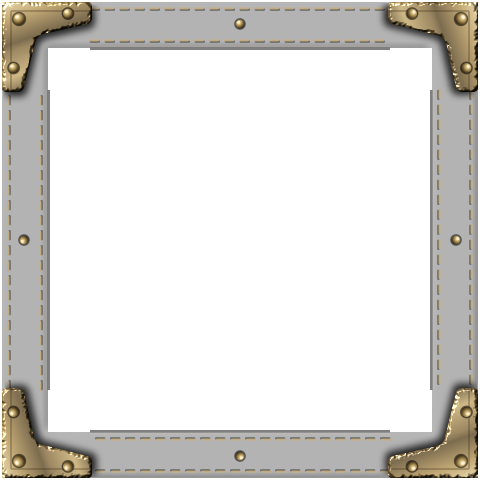
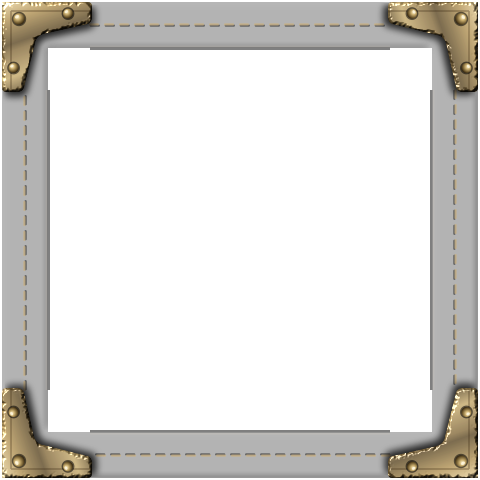
feat(v1.3-p3): UI-P3 visual finish with per-theme Use seals (for screenshot review)
- Memo 5: 적갈 가죽 keeps its red wax seal; 흑단과 은, 숲의 펠트 and
  아케인 블루 get their own vector seals from scripts/design/seals_v13.mjs
  (silver-rimmed ebony medallion, oak-leaf green wax, glowing rune stone
  with no metal), with matching text ink and hover light.
- Ornament density: the oxblood board frame keeps its corner guards but
  drops the repeated edge rivets and the second stitch row (frames_v12
  gains FRAMES_ONLY; the other frames are byte-identical). The IN PLAY
  slot has one trim line; the large card keeps only its glow; the
  oxblood ledger binding uses a plain line instead of dashes.
- Typography: serif for titles and names, sans for filters, toggles,
  small buttons, costs, numbers and secondary lines.
- v13-p3-e2e checks each theme's seal; V13Seals unit test.
- Full E2E regression passes on the bundle and the packaged EXE.

diff --git a/src/theme-playmat.css b/src/theme-playmat.css
@@ -1068,3 +1068,29 @@ html, body { background: #0b0807; }
 .app.playmat .rest-heading { display: flex; align-items: center; gap: 8px; margin: 2px 0 3px; font: 700 9.5px var(--display); letter-spacing: 3px; color: var(--mute-l); }
 .app.playmat .rest-heading::before, .app.playmat .rest-heading::after { content: ''; flex: 1; height: 1px; background: linear-gradient(90deg, transparent, var(--m2), transparent); }
 @media (max-height: 560px) { .app.playmat .rest-heading { display: none; } }
+
+/* ---- v1.3 Phase 3 · UI-P3: visual finish ---- */
+/* The Use seal per theme (memo 5). 적갈 가죽 keeps its red wax; the others are drawn by scripts/design/seals_v13.mjs. */
+.app.playmat { --seal-ink: #fbeee2; --seal-ink-shadow: 0 1px 0 #3a0c07, 0 -1px 0 rgba(255, 190, 170, .3); --seal-hover: drop-shadow(0 6px 7px rgba(40, 14, 8, .7)) brightness(1.08); }
+.app.playmat[data-theme=ebony] { --seal: url('./assets/playmat/seal-ebony.svg'); --seal-ink: #f1f3f6; --seal-ink-shadow: 0 1px 1px #000, 0 0 5px rgba(0, 0, 0, .8);
+  --seal-hover: drop-shadow(0 6px 7px rgba(0, 0, 0, .75)) drop-shadow(0 0 5px rgba(235, 240, 248, .28)) brightness(1.06); }
+.app.playmat[data-theme=verdant] { --seal: url('./assets/playmat/seal-felt.svg'); --seal-ink: #f3eed8; --seal-ink-shadow: 0 1px 0 #0d1a0b, 0 0 4px rgba(10, 20, 8, .7);
+  --seal-hover: drop-shadow(0 6px 7px rgba(8, 16, 6, .7)) brightness(1.08) saturate(1.08); }
+.app.playmat[data-theme=abyss] { --seal: url('./assets/playmat/seal-arcane.svg'); --seal-ink: #e4f7ff; --seal-ink-shadow: 0 0 6px rgba(127, 207, 255, .95), 0 1px 0 #000;
+  --seal-hover: drop-shadow(0 4px 5px rgba(0, 0, 0, .7)) drop-shadow(0 0 9px rgba(127, 207, 255, .6)); }
+.app.playmat.p4-b .use-button:not(:disabled) { color: var(--seal-ink); text-shadow: var(--seal-ink-shadow); }
+.app.playmat.p4-b .use-button:hover:not(:disabled) { filter: var(--seal-hover); }
+.app.playmat[data-theme=abyss].p4-b .use-button:disabled { filter: saturate(0) brightness(.55); }
+
+/* One quiet frame around the large card: a single trim line on the slot and a soft glow on the card (no stacked rings). */
+.app.playmat .board-left > .in-play-slot { box-shadow: inset 0 0 0 1px var(--m2), inset 0 0 34px rgba(0, 0, 0, .38); }
+.app.playmat .board-left .detail-card .card-face:not(.has-alpha) { box-shadow: 0 0 20px var(--glow), 0 14px 28px rgba(0, 0, 0, .7); }
+/* The ledger binding loses its dashed stitch (적갈 가죽); the other themes keep their own line. */
+.app.playmat:not([data-theme]) .board-right > .resource-panel::before, .app.playmat[data-theme=oxblood] .board-right > .resource-panel::before { border: 1px solid rgba(210, 190, 160, .16); }
+/* Typography: decorative serif for titles and names (card name, ledger, DECK/USED, headers); the plain sans for
+   functional text — filters, toggles, small buttons, costs, numbers and secondary lines. */
+.app.playmat :is(.role-filter > button, .role-filter .chips button, .quick-actions button, .view-switch button, .zone-action) { font-family: var(--sans); font-size: 12px; }
+.app.playmat :is(.selected-properties, .card-use .cost-preview, .card-use .form-field, .exception-button) { font-family: var(--sans); }
+.app.playmat .detail-tags span { font-family: var(--sans); font-size: 10.5px; }
+.app.playmat .resource-status-row strong { font-family: var(--sans); font-size: 13px; }
+.app.playmat .rest-buttons button { font-family: var(--sans); font-weight: 700; }

diff --git a/tests/V13Seals.test.ts b/tests/V13Seals.test.ts
@@ -1,0 +1,25 @@
+import { describe, expect, it } from 'vitest';
+import { existsSync, readFileSync } from 'node:fs';
+import { resolve } from 'node:path';
+
+const dir = resolve('src/assets/playmat');
+const css = readFileSync(resolve('src/theme-playmat.css'), 'utf8');
+
+describe('v1.3 Phase 3 UI-P3 (memo 5) · a Use seal per theme', () => {
+  it('적갈 가죽 keeps its wax seal; the other themes point at their own seal file', () => {
+    expect(css).toContain("--seal: url('./assets/playmat/wax-seal.png');");
+    for (const [theme, file] of [['ebony', 'seal-ebony.svg'], ['verdant', 'seal-felt.svg'], ['abyss', 'seal-arcane.svg']]) {
+      expect(existsSync(resolve(dir, file)), file).toBe(true);
+      expect(css).toMatch(new RegExp(`\\.app\\.playmat\\[data-theme=${theme}\\] \\{ --seal: url\\('\\./assets/playmat/${file.replace('.', '\\.')}'\\);`));
+    }
+  });
+  it('the seals are self-contained vectors (no links, images or scripts), carry their id, and 아케인 블루 has no metal colours', () => {
+    for (const name of ['seal-ebony', 'seal-felt', 'seal-arcane']) {
+      const svg = readFileSync(resolve(dir, `${name}.svg`), 'utf8');
+      expect(svg.startsWith(`<svg id="${name}" xmlns="http://www.w3.org/2000/svg" viewBox="0 0 120 120"`)).toBe(true);
+      expect(svg).not.toMatch(/<image|<script|href=|https?:\/\/(?!www\.w3\.org\/2000\/svg)/);
+    }
+    // Silver/brass/bronze gradients are named for their metal in the generator; the arcane seal uses none of them.
+    expect(readFileSync(resolve(dir, 'seal-arcane.svg'), 'utf8')).not.toMatch(/silver|brass|bronze|gold/);
+  });
+});

diff --git a/V1_3_P3_UIP3_REVIEW.md b/V1_3_P3_UIP3_REVIEW.md
@@ -1,0 +1,78 @@
+# v1.3 Phase 3 · 두 번째 스크린샷 검수 — UI-P1 카드 영역 · UI-P2 정보 패널 · UI-P3 시각 마무리
+
+- 기준: UI-P0 승인 커밋 `5f58df3` → UI-P1·P2 중간 커밋 `fc13c34` → 이번 커밋. 브랜치는 `feat/v1.3-phase3`이고 앱 버전은 1.2.0 그대로다.
+- SQLite v6 그대로다. 새 설정 키 `used_view`와 새 IPC `assets:alpha`가 생겼다([DATA_SCHEMA_V1_3.md](DATA_SCHEMA_V1_3.md)).
+- 이 검수를 통과하면 UI-P4(플레이 흐름·화면 검증, 포토배시와의 차이 정리)로 넘어간다.
+
+## 1. 바뀐 점
+
+**UI-P1 카드 영역**
+- **손패:** 보통 창에서 카드 **5~7장**이 보인다(1920×1080 약 5.5장, 1366×768 약 7장). 카드는 손패 칸 높이에 맞추되 칸 너비의 1/5.6을 넘지 않는다. 짧은 창(1280×720·150%, 최소 창 860×440)에서도 카드와 이름이 잘리지 않는다.
+- **DECK·USED:** 같은 모양의 칸이다. 테두리 위 이름표, 왼쪽에 칸 높이를 채우는 더미, 오른쪽에 이름·장수·보조 버튼이 있다. 장부를 접어 칸이 좁아지면 더미와 이름만 세로로 쌓는다.
+- **메모 4 덱 셔플:** DECK 더미를 누르면 손패 순서가 무작위로 섞인다(더미가 짧게 흔들림, 모션 줄이기면 없음). 덱 구성·순서와 카드는 바뀌지 않고, 이번 실행 동안만 유지된다. “원래 순서”로 등록 순서로 돌아간다.
+- **메모 6 카드 뒷면:** 고르는 곳을 **관리 → 캐릭터·덱 → 카드 뒷면 바꾸기**로 옮겼다(고르는 창은 그대로).
+- **메모 3 최근 사용 비우기:** USED 칸의 “비우기”는 표시만 비운다. 사용 기록·Undo·자원·전체 사용 기록은 그대로이고, “되돌리기”로 되살린다. 비운 상태는 다시 실행해도 유지된다.
+- **메모 1 PNG 투명도:** 투명한 부분이 있는 카드 이미지는 어두운 바탕 없이 그 모양대로 보인다. 그림자·선택 빛이 이미지 모양을 따르고, 쓸 수 없는 카드 위 뒷면도 이미지 모양으로만 덮는다. 불투명 카드는 이전처럼 그린다. 원본 파일은 그대로다.
+
+**UI-P2 정보 패널**
+- **카드 세부:** 기본 높이를 화면의 40%에서 34%로 줄였다(약 15%). 이름 아래 줄은 종류·레벨을 되풀이하지 않는다. 양피지 여백을 줄이고, 긴 설명은 안에서 스크롤하며, 사용 확정은 아래에 고정했다.
+- **자원 장부:** 자원 수만큼의 높이를 쓰고, 넘치면 안에서 스크롤한다. 회복 버튼 위에 “휴식 · 회복” 머리말을 달아 장부의 아래 부분으로 묶었다.
+
+**UI-P3 시각 마무리**
+- **메모 5 사용 확정 인장:** 테마마다 다르다.
+  - 적갈 가죽: 붉은 밀랍(기존 유지)
+  - 흑단과 은: 은 테 흑단 메달
+  - 숲의 펠트: 참나무 잎 녹색 밀랍
+  - 아케인 블루: 빛나는 룬 석재(금속 없음)
+- **장식 밀도:** 적갈 가죽 판 테두리의 반복 리벳과 겹 바느질을 줄였다(모서리 보호대·리벳은 유지). IN PLAY의 겹 테두리를 선 하나로 바꾸고, 큰 카드 둘레의 금속 테를 빼고 빛만 남겼다. 장부 바인딩의 점선을 실선으로 바꿨다(적갈 가죽).
+- **서체:** 제목과 이름은 장식용 세리프를 유지했다. 필터, 버튼류, 비용, 수치, 보조 줄은 읽기 쉬운 산세리프로 바꿨다.
+- **다른 테마:** 흑단·펠트·석재 재질과 각자의 틀·모서리 장식은 v1.2 그대로다.
+
+## 2. 스크린샷
+
+| 화면 | 변경 전 (1.3 Phase 2) | UI-P0 (첫 검수) | 지금 (UI-P3) |
+| --- | --- | --- | --- |
+| 1920×1080 · 100% | ![](docs/screenshots/v1.3-p3/before-1920x1080-100.png) | ![](docs/screenshots/v1.3-p3/ui-p0-1920x1080-100.png) | ![](docs/screenshots/v1.3-p3/ui-p3-1920x1080-100.png) |
+| 1366×768 · 100% | ![](docs/screenshots/v1.3-p3/before-1366x768-100.png) | ![](docs/screenshots/v1.3-p3/ui-p0-1366x768-100.png) | ![](docs/screenshots/v1.3-p3/ui-p3-1366x768-100.png) |
+| 1280×720 · 100% | ![](docs/screenshots/v1.3-p3/before-1280x720-100.png) | ![](docs/screenshots/v1.3-p3/ui-p0-1280x720-100.png) | ![](docs/screenshots/v1.3-p3/ui-p3-1280x720-100.png) |
+| 1366×768 · 125% | ![](docs/screenshots/v1.3-p3/before-1366x768-125.png) | ![](docs/screenshots/v1.3-p3/ui-p0-1366x768-125.png) | ![](docs/screenshots/v1.3-p3/ui-p3-1366x768-125.png) |
+| 1280×720 · 150% | ![](docs/screenshots/v1.3-p3/before-1280x720-150.png) | ![](docs/screenshots/v1.3-p3/ui-p0-1280x720-150.png) | ![](docs/screenshots/v1.3-p3/ui-p3-1280x720-150.png) |
+| 적갈 가죽 | ![](docs/screenshots/v1.3-p3/before-theme-oxblood.png) | ![](docs/screenshots/v1.3-p3/ui-p0-theme-oxblood.png) | ![](docs/screenshots/v1.3-p3/ui-p3-theme-oxblood.png) |
+| 흑단과 은 | ![](docs/screenshots/v1.3-p3/before-theme-ebony.png) | ![](docs/screenshots/v1.3-p3/ui-p0-theme-ebony.png) | ![](docs/screenshots/v1.3-p3/ui-p3-theme-ebony.png) |
+| 숲의 펠트 | ![](docs/screenshots/v1.3-p3/before-theme-verdant.png) | ![](docs/screenshots/v1.3-p3/ui-p0-theme-verdant.png) | ![](docs/screenshots/v1.3-p3/ui-p3-theme-verdant.png) |
+| 아케인 블루 | ![](docs/screenshots/v1.3-p3/before-theme-abyss.png) | ![](docs/screenshots/v1.3-p3/ui-p0-theme-abyss.png) | ![](docs/screenshots/v1.3-p3/ui-p3-theme-abyss.png) |
+
+인장 네 개를 한 장에 모은 그림은 `docs/screenshots/v1.3-p3/ui-p3-seals.png`이다.
+
+## 3. 검증
+
+| 항목 | 결과 |
+| --- | --- |
+| `scripts/v13-p3-e2e.mjs` 9개 검사 | 빌드 번들·개발 모드·패키징 EXE 모두 통과 |
+| ↳ 배치 | 1920×1080·1366×768·1280×720 × 100/125/150%와 최소 창 860×440에서 다음을 모두 확인: 세 칸 배치, 겹침·잘림 없음, 큰 카드 비율, 인장·회복 버튼·두 더미 보임, **손패 카드 전체와 비율** |
+| ↳ 반응 행동 버튼·장부 접기 | 통과 |
+| ↳ 네 테마 | 같은 배치, **테마별 인장**(밀랍·흑단·펠트·룬 석재)과 그 로딩 확인 |
+| ↳ 손패 장수 | 1920×1080과 1366×768에서 온전한 카드 5~8장 |
+| ↳ 덱 셔플 | 순서만 바뀜(카드·덱 행·설정 그대로), 원래 순서와 재시작 시 등록 순서로 돌아옴 |
+| ↳ USED 비우기·되돌리기 | 사용 기록 수 그대로, 전체 기록에 남음, 비운 상태는 재시작 후에도 유지 |
+| ↳ 카드 뒷면 | 관리 → 캐릭터·덱에서 바꾸면 DECK 더미에 반영 |
+| ↳ 투명 PNG | 바탕 없음, 그림자·선택 빛은 이미지 모양, 뒷면 덮개는 이미지 모양으로 가려짐, 불투명 카드는 기존 그림자 |
+| 단위 테스트 | 507/507(이번 단계 +6: 손패 순서·USED·인장 에셋·투명 검사). Node 24 전용 2개 파일은 이 PC의 Node 22에서 로드 안 됨(이전과 같음) |
+| 전체 E2E 회귀 | 16종 모두 빌드 번들·패키징 EXE에서 통과 |
+| 손패 200장 프레임 시간 | v1.2 Phase 2 E2E 통과(투명 검사는 이미지별 한 번, 불투명 카드는 필터 없이 그림) |
+
+**기존 검사를 고친 것**
+
+- **메인 E2E:** 캐릭터·덱 창에서 덱 이름을 찾는 단계가 새 카드 뒷면 칸과 겹치지 않게, 화면 문구에서 덱 이름을 빼고 버튼의 접근성 이름에만 넣었다(테스트는 그대로).
+- **v1.1 필터 줄:** 손패가 넘쳐야 하는 확인은 이제 카드가 작아져 9장 덱이 거의 다 보이므로 전체 라이브러리로 한다.
+- **v1.1 선택 관리:** 일괄 작업을 펼친 선택 관리에서도 카드 전체가 보이게 최소 카드 크기를 조정했다(테스트는 그대로).
+
+**미검증:** 실제 Windows 배율 설정 화면(장치 배율 인자로 재현), 실제 손으로 해 보는 셔플·관성의 느낌.
+
+## 4. 검수 요청 / 다음 단계
+
+- **포토배시 대조:** 포토배시가 있으면 이 단계 화면과 비교해 패널 크기, 손패 비중, 장식 밀도를 봐 주세요. 다르게 보이는 점을 알려 주시면 UI-P4 전에 고칩니다.
+- **결정이 필요한 점:**
+  - 덱 셔플을 이번 실행 동안만 유지하는 것이 괜찮은지(다시 실행하면 등록 순서)
+  - IN PLAY 이름표를 그대로 둘지
+- **UI-P4(검수 통과 후):** 카드 선택·확대, 손패 드래그·관성, 검색·필터, 사용 확정·자원 차감, 휴식·회복을 여러 카드 수·자원 수, 창 크기·배율, 네 테마에서 점검하고, 포토배시와의 차이를 정리한다.

diff --git a/DECISIONS.md b/DECISIONS.md
@@ -1,5 +1,17 @@
 # 구현 결정
 
+## 2026-11-25 · v1.3 Phase 3 UI-P2·UI-P3 정보 패널·시각 마무리
+
+- **UI-P2 카드 세부:** 이름 아래 속성 줄은 위의 종류·레벨 줄과 겹치지 않게 행동 경제·사거리만 보인다. 전체 속성은 설명 끝에 그대로 둔다. 큰 창에서는 양피지 여백을 줄인다. 짧은 창에서는 머리의 태그 칩을 숨기고(설명 끝 태그 줄과 같은 내용) 책갈피를 같은 비율로 줄인다. 사용 확정 인장은 아래에 고정하고 긴 설명은 안에서 스크롤한다.
+- **UI-P2 자원 장부:** 자원 수만큼의 높이를 쓰고 칸이 차면 안에서 스크롤한다. DECK은 칸 아래에 붙인다. 회복 버튼 위에 “휴식 · 회복” 머리말을 둬 장부의 아래 부분으로 읽히게 한다. 계산·회복 로직은 그대로다.
+- **UI-P3 메모 5 사용 확정 인장:** 적갈 가죽은 승인된 붉은 밀랍을 유지한다. 나머지 셋은 `scripts/design/seals_v13.mjs`가 그린 벡터 인장이다.
+  - 흑단과 은: 가는 은 테의 흑단 옻칠 메달
+  - 숲의 펠트: 참나무 잎 고리를 누른 짙은 녹색 밀랍(광택 없음)
+  - 아케인 블루: 빛나는 룬 고리를 새긴 석재(금속 없음)
+  - 글자색·호버 빛은 테마마다 맞추고, 누름·비활성 상태는 기존 규칙을 따른다.
+- **UI-P3 장식 정리(적갈 가죽 기준):** 판 테두리의 곧은 변이 바느질 두 줄과 구간마다 리벳을 반복하던 것을 바느질 한 줄, 리벳 없음으로 바꾼다. 모서리의 망치 자국 보호대와 리벳은 그대로다(`frames_v12.mjs`, 다른 테마 틀은 바뀌지 않음). IN PLAY 칸의 겹 테두리는 선 하나로, 큰 카드의 금속 테는 빛만 남긴다. 장부 바인딩의 점선 바느질은 적갈 가죽에서만 가는 실선으로 바꾸고, 다른 테마는 각자의 선을 유지한다.
+- **UI-P3 서체:** 제목·이름(카드 이름, 장부, DECK·USED 이름, 머리말)은 장식용 세리프를 유지한다. 필터 칩, 행동 빠른 버튼, 보기 전환, 작은 칸 버튼, 비용 줄, 자원 수치, 회복 버튼 글자, 보조 속성 줄은 기능용 산세리프로 바꾼다. 상단 네 버튼은 v1.2에서 테마별 같은 상자로 검수했으므로 그대로 둔다.
+
 ## 2026-11-25 · v1.3 Phase 3 UI-P1 카드 영역 (UI-P0 배치 승인 후)
 
 - 사용자가 UI-P0 배치를 승인했다(“배치 승인, UI-P1 진행”). 기준은 커밋 `5f58df3`. 지시서대로 UI-P1~P3을 마친 뒤 두 번째 스크린샷 검수를 받는다.

diff --git a/V1_3_PLAN.md b/V1_3_PLAN.md
@@ -17,7 +17,7 @@ v1.2(1.2.0)를 기준으로 카드 등록을 쉽고 빠르게 만들고, 메인 
 | --- | --- | --- |
 | Phase 1 | 단일 카드 등록 개선, 이미지 없는 카드 기본 디자인 | 완료 · 승인됨 |
 | Phase 2 | 다중 이미지 등록·등록 템플릿·부분 실패와 재시도 | 완료 · 승인됨 |
-| Phase 3 | 플레이 보드 재구성(UI-P0~P4, 스크린샷 검수 2회) | 진행 중 · UI-P3 |
+| Phase 3 | 플레이 보드 재구성(UI-P0~P4, 스크린샷 검수 2회) | 진행 중 · **UI-P3 두 번째 스크린샷 검수 대기** |
 | Phase 4 | 최종 통합·회귀 검증, 배포 후보 | 승인 후 |
 
 **지금 허용된 범위는 Phase 3까지다.** 각 단계가 끝나면 멈추고 승인을 받는다. 승인 없이 다음 단계나 v1.4를 시작하지 않는다.
@@ -70,3 +70,4 @@ v1.2(1.2.0)를 기준으로 카드 등록을 쉽고 빠르게 만들고, 메인 
 - 2026-11-24: UI-P0 배치 골격 완료, [검수 문서](V1_3_P3_UIP0_REVIEW.md). **사용자 첫 스크린샷 검수 대기**(UI-P1 미착수).
 - 2026-11-25: 사용자 UI-P0 배치 승인(커밋 `5f58df3`), UI-P1 착수.
 - 2026-11-25: UI-P1(손패 5~7장, DECK·USED 통일, 메모 1·3·4·6)과 UI-P2(카드 세부 여백, 장부 가변 높이, 회복 버튼 머리말) 완료(중간 커밋). UI-P3 착수.
+- 2026-11-25: UI-P3(메모 5 테마별 인장, 장식 밀도, 서체) 완료, [검수 문서](V1_3_P3_UIP3_REVIEW.md). **사용자 두 번째 스크린샷 검수 대기**(UI-P4 미착수).
